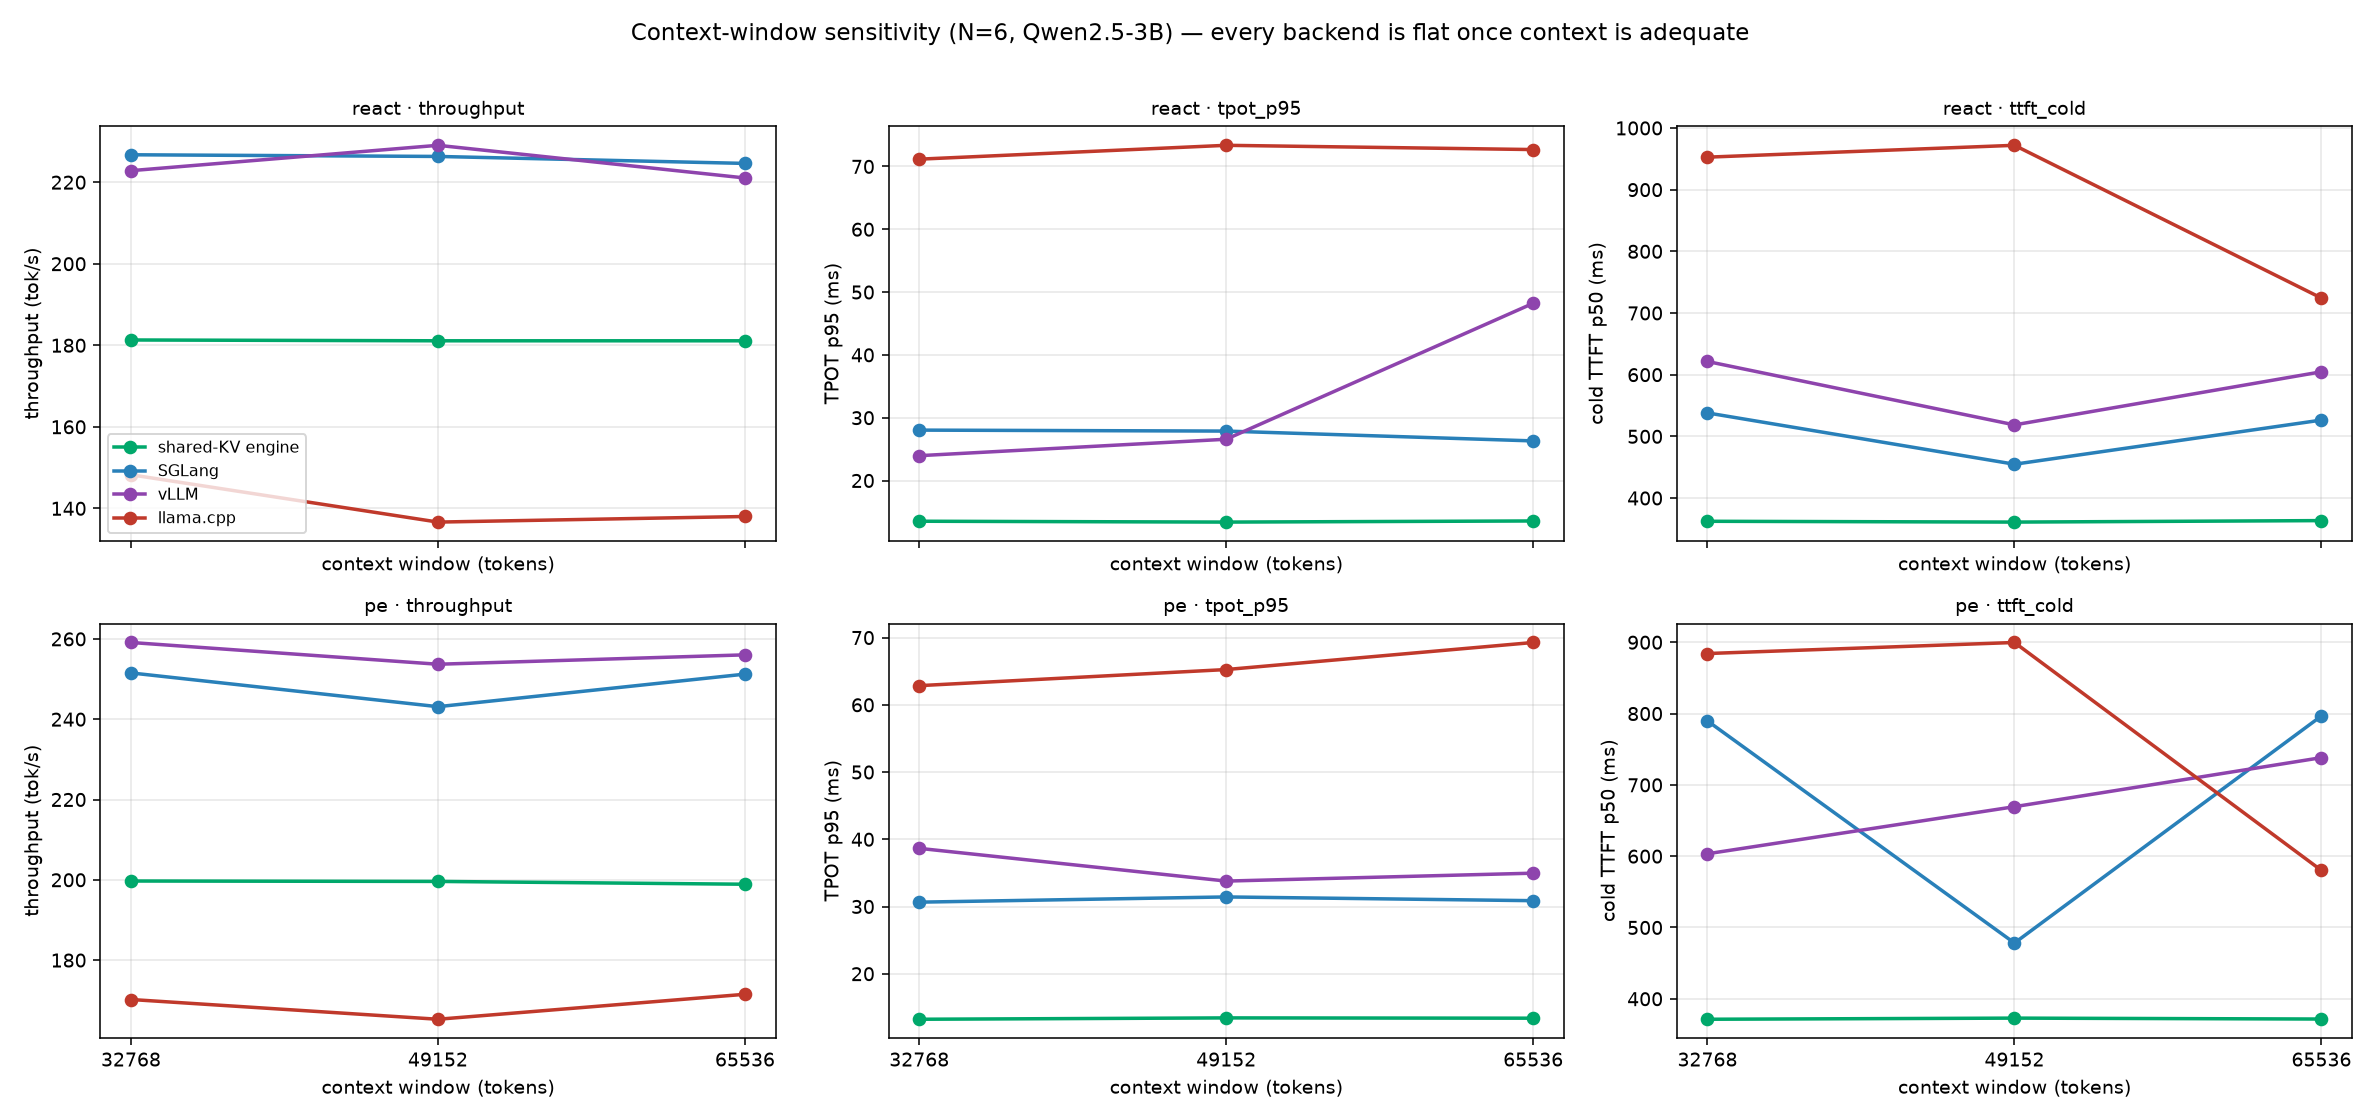
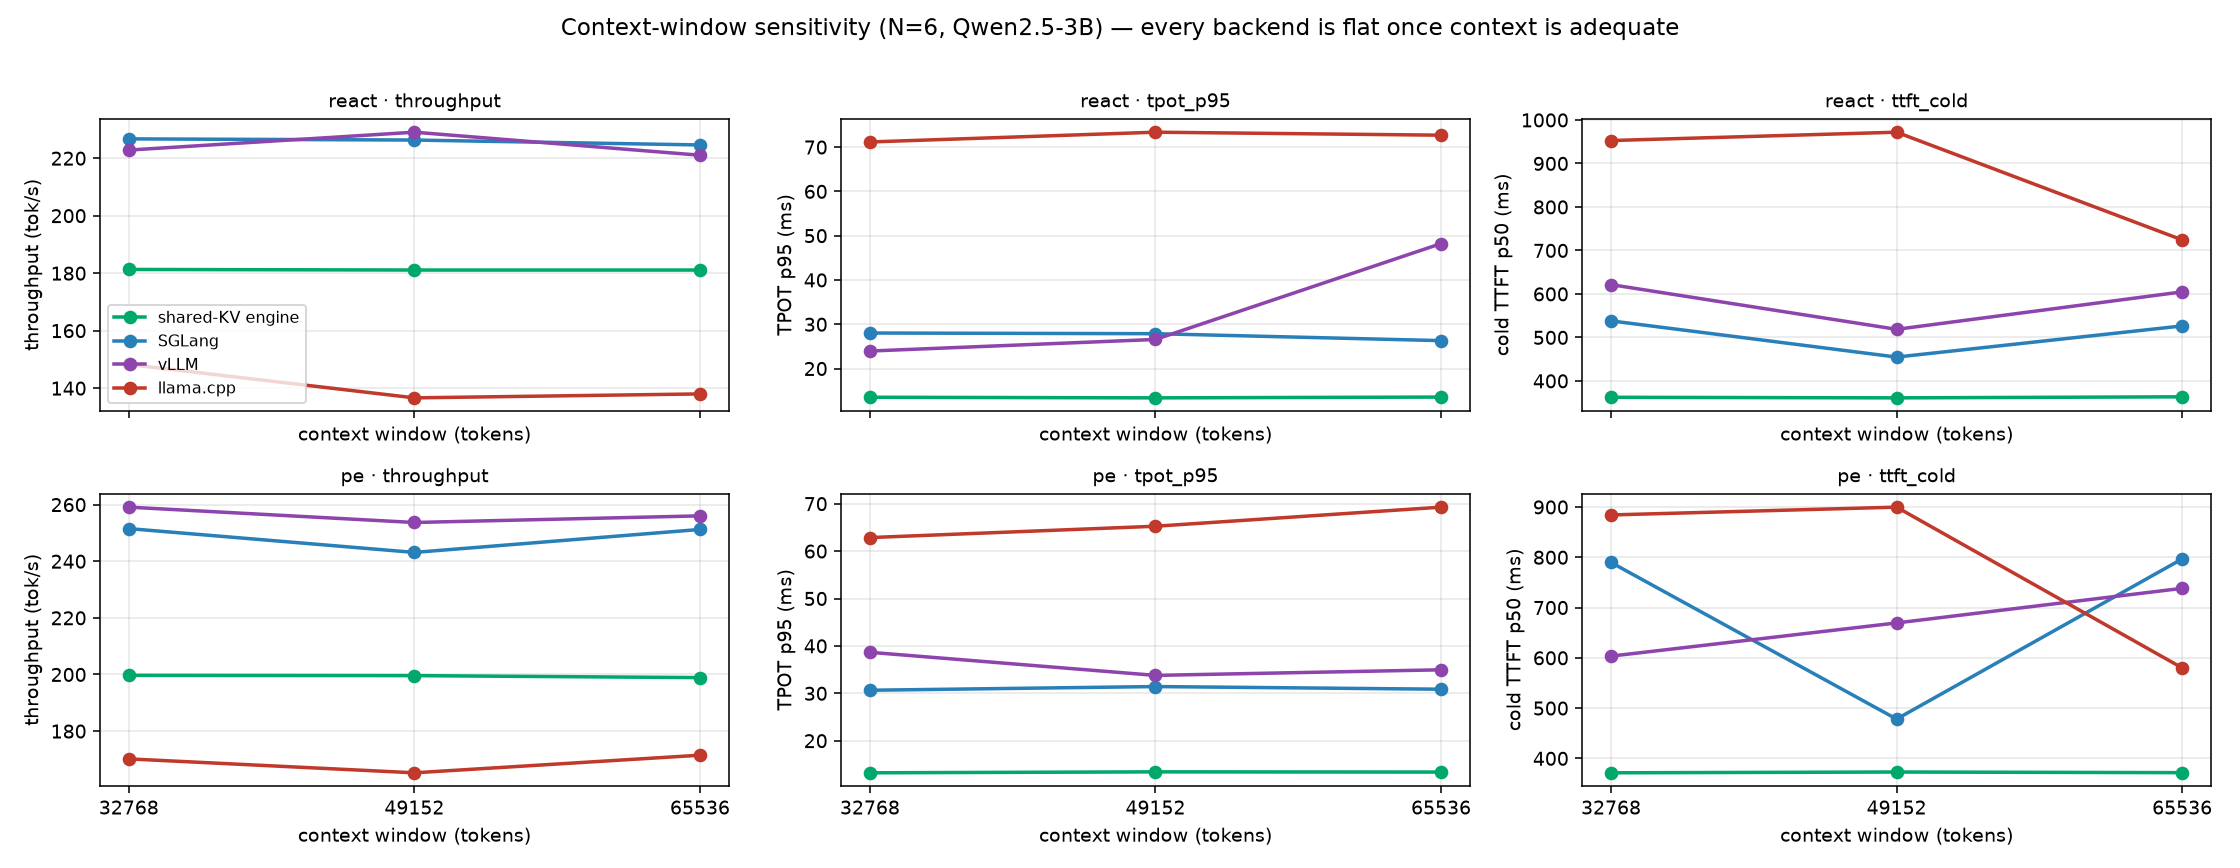
优化

diff --git a/scripts/plot_context_windows.py b/scripts/plot_context_windows.py
@@ -18,7 +18,7 @@ COLOR = {"engine": "#00a86b", "vllm": "#8e44ad", "sglang": "#2980b9", "llama": "
 PANELS = [("throughput", "throughput (tok/s)"), ("tpot_p95", "TPOT p95 (ms)"),
           ("ttft_cold", "cold TTFT p50 (ms)")]
 
-fig, axes = plt.subplots(2, 3, figsize=(17, 8), sharex=True)
+fig, axes = plt.subplots(2, 3, figsize=(16, 6.2), sharex=True)
 for r, para in enumerate(["react", "pe"]):
     for c, (key, ylab) in enumerate(PANELS):
         ax = axes[r][c]
